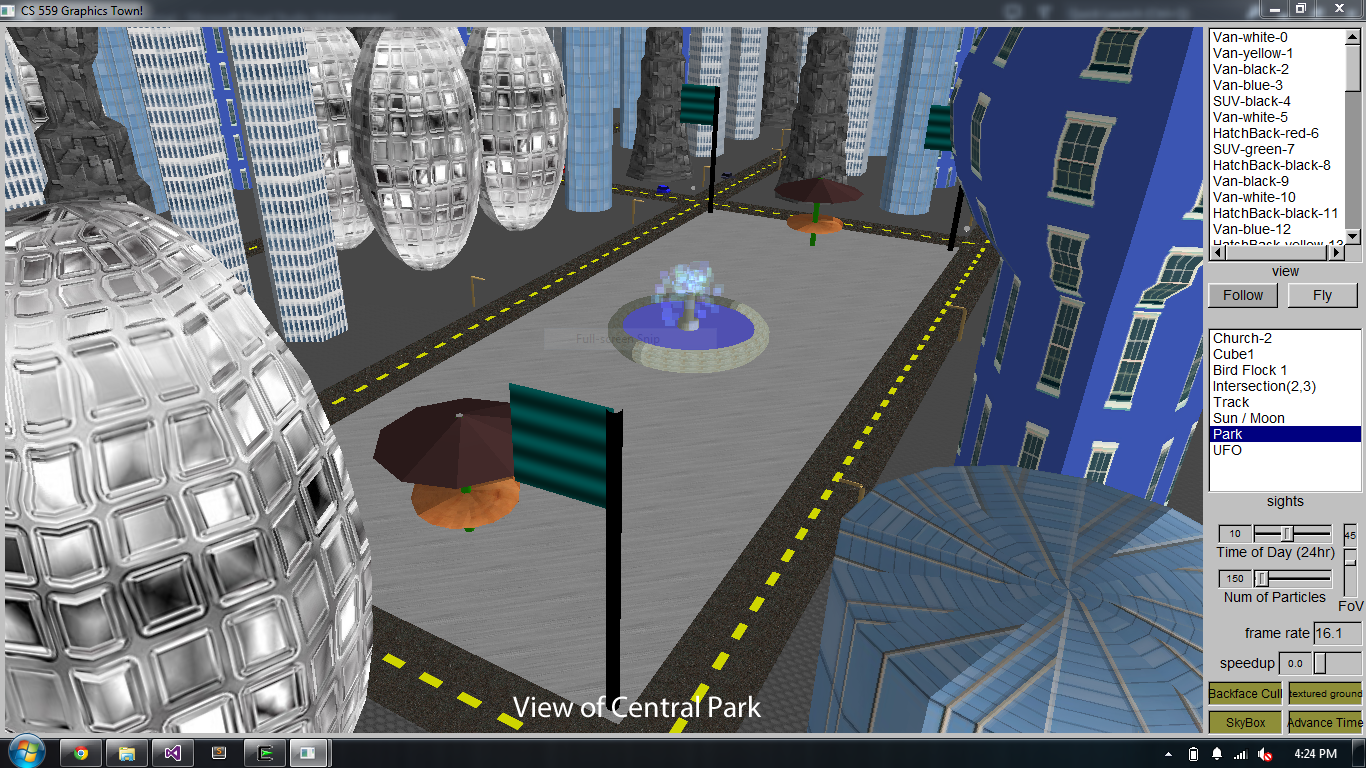
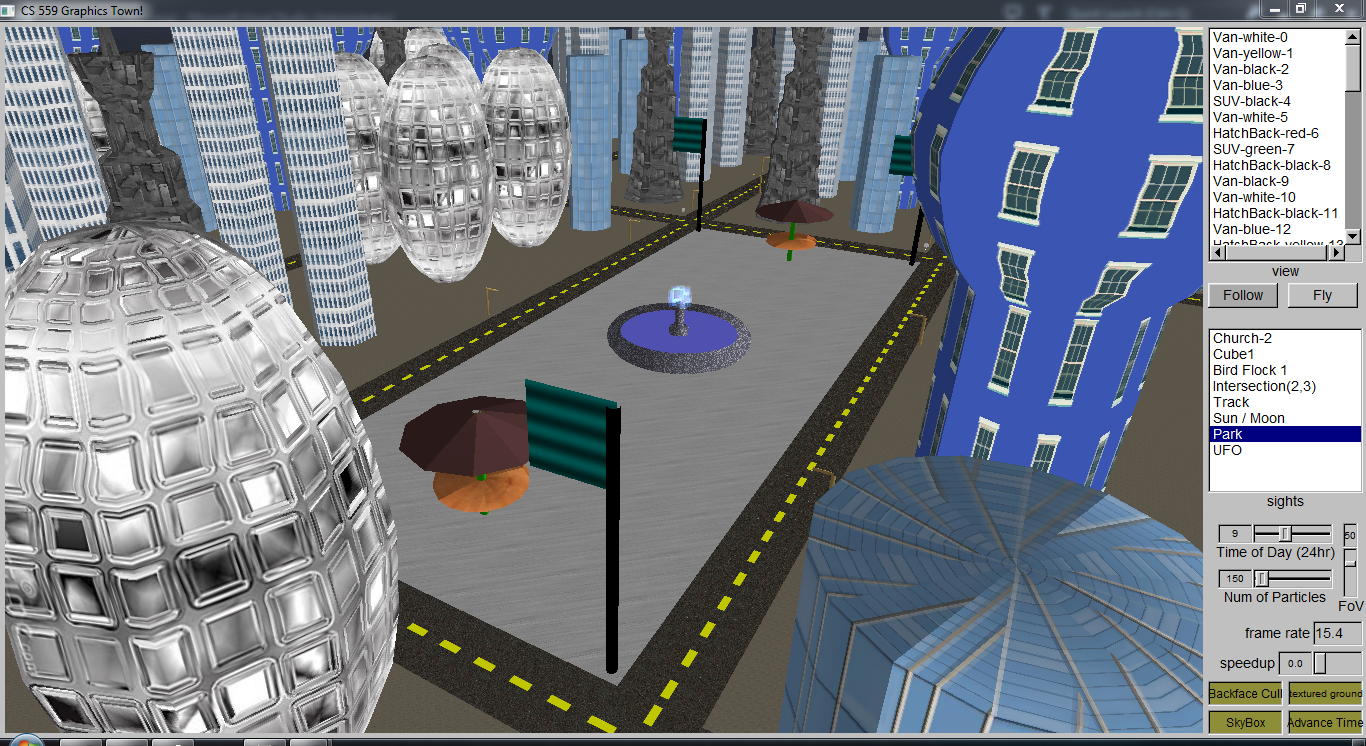
Updated shaders, screenshots, README

diff --git a/GrTown2014/GrTown/Examples/Park.cpp b/GrTown2014/GrTown/Examples/Park.cpp
@@ -18,12 +18,12 @@ float count = 0.0f;
 Fountain::Fountain(glm::vec3 scale) {
   // Add a fountain
   Surface* s = new Surface(glm::vec3(0, 0, 0), glm::vec3(0.75 * scale[0], 1.0 * scale[1], 0.75 * scale[2]), S_FOUNTAIN, divs,
-    NULL, NULL, "rock005.png", 30.0, 15.0, false);
+    "ShadedCubeTest.vert", "Fountain.frag", NULL, 30.0, 15.0, false);
   add(s);
 
   // Add water to fountain
   Surface* w = new Surface(glm::vec3(0, 0, 0), glm::vec3(0.75 * scale[0], 1.0 * scale[1], 0.75 * scale[2]), S_WATER, divs,
-    "ShadedCubeTest.vert", "Fountain.frag", NULL, 0.0, 0.0, false);
+    "ShadedCubeTest.vert", "Fountain-Water.frag", NULL, 0.0, 0.0, false);
   add(w);
 
   // Seed rng and add fountain particles
